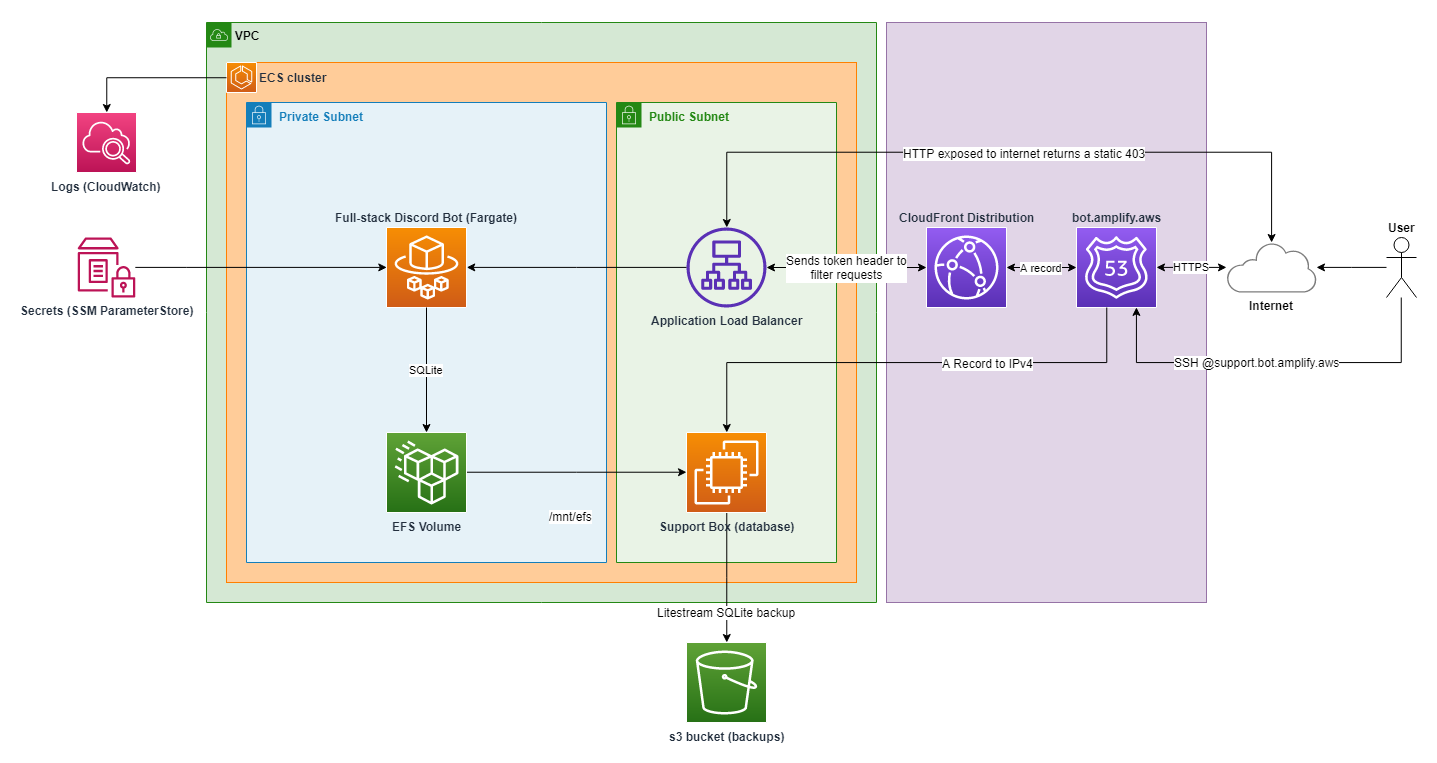
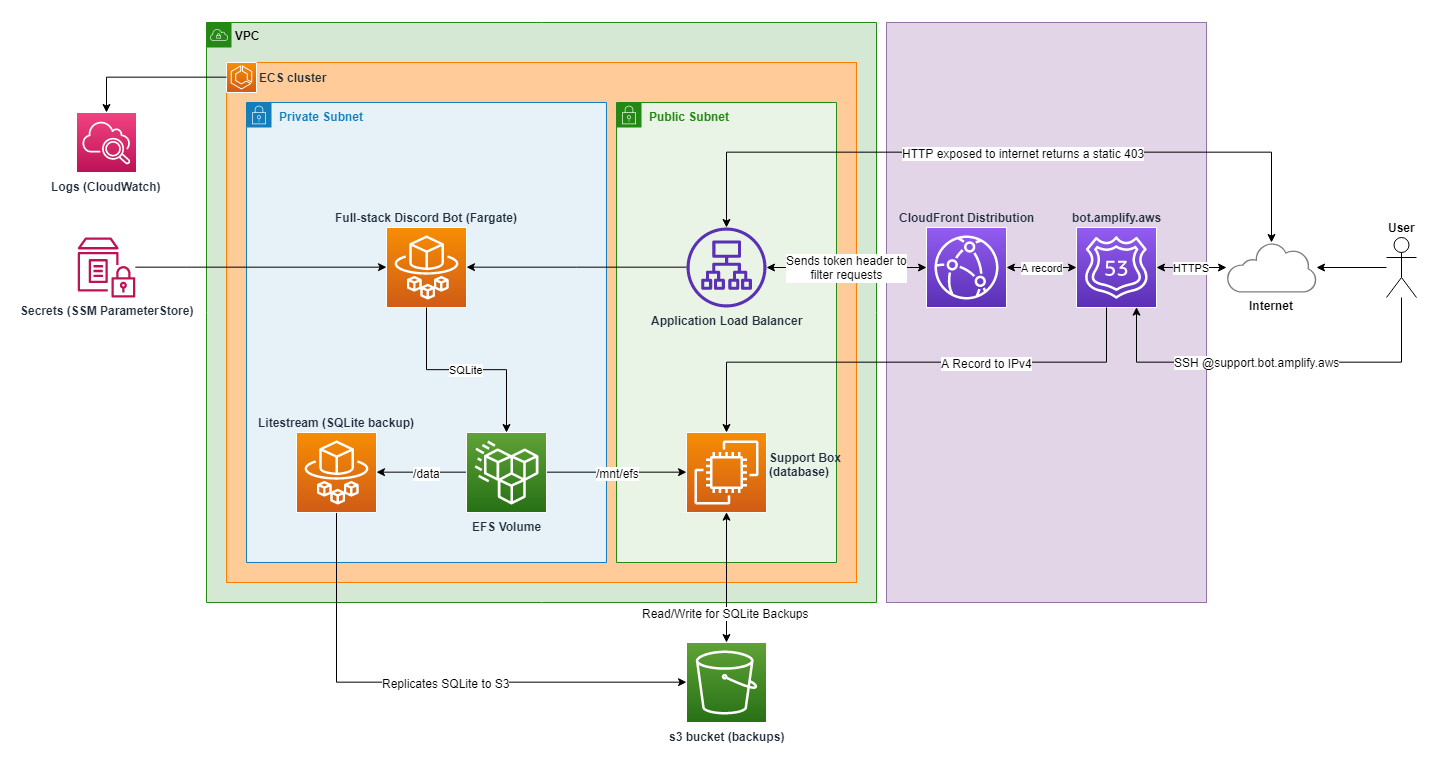
feat(cdk): add sqlite backup with litestream sidecar, modify bucket

diff --git a/cdk/src/components/support-box.ts b/cdk/src/components/support-box.ts
@@ -1,21 +1,26 @@
-import { Stack } from 'aws-cdk-lib'
+import { Stack, Tags } from 'aws-cdk-lib'
 import { Construct } from 'constructs'
 import * as cdk from 'aws-cdk-lib'
 import * as ec2 from 'aws-cdk-lib/aws-ec2'
 import * as iam from 'aws-cdk-lib/aws-iam'
 import * as route53 from 'aws-cdk-lib/aws-route53'
-import * as s3 from 'aws-cdk-lib/aws-s3'
+import type * as s3 from 'aws-cdk-lib/aws-s3'
 import type * as efs from 'aws-cdk-lib/aws-efs'
 import type { AmplifyAwsSubdomain } from './amplify-aws-subdomain'
 
 export interface SupportBoxProps {
   /**
-   * Filesystem to be used for storing the application's data.
+   * bucket for ec2 access, used for manually restoring backups of SQLite
+   */
+  bucket: s3.Bucket
+
+  /**
+   * Filesystem to be used for storing the mounting to ec2 instance
    */
   filesystem: efs.FileSystem
 
   /**
-   * Subdomain (if exists)
+   * Subdomain (if exists) establishes `support` subdomain
    */
   subdomain: AmplifyAwsSubdomain | undefined
 
@@ -29,15 +34,16 @@ export interface SupportBoxProps {
  * The support box is used for accessing filesystem and performing manual database migrations
  */
 export class SupportBox extends Construct {
-  private readonly appName: string = this.node.tryGetContext('app')
+  private readonly appName: string = this.node.tryGetContext('name')
   private readonly envName: string = this.node.tryGetContext('env')
-
-  public readonly bucket: s3.Bucket
 
   constructor(scope: Construct, id: string, props: SupportBoxProps) {
     super(scope, id)
 
-    const { filesystem, subdomain, vpc } = props
+    const { bucket, filesystem, subdomain, vpc } = props
+
+    Tags.of(this).add('app:name', this.appName)
+    Tags.of(this).add('app:env', this.envName)
 
     const role = new iam.Role(this, 'SupportBoxRole', {
       assumedBy: new iam.ServicePrincipal('ec2.amazonaws.com'),
@@ -65,7 +71,7 @@ export class SupportBox extends Construct {
         subnetType: ec2.SubnetType.PUBLIC,
       },
       role,
-      instanceName: 'support-box',
+      instanceName: `support-box-${this.envName}`,
       instanceType: ec2.InstanceType.of(
         // t2.micro has free tier usage in aws
         ec2.InstanceClass.T2,
@@ -104,11 +110,6 @@ export class SupportBox extends Construct {
       ...scriptSetupNode
     )
 
-    // create bucket for SQLite backups with Litestream
-    const bucket = new s3.Bucket(this, 'SupportBucket', {
-      bucketName: `${this.appName}-${this.envName}-bucket`,
-    })
-    this.bucket = bucket
     bucket.grantReadWrite(instance.role)
 
     // set up DNS record for the CloudFront distribution if subdomain exists
@@ -122,6 +123,11 @@ export class SupportBox extends Construct {
       // outputs public IP of the instance
       new cdk.CfnOutput(this, 'DomainOutput', {
         value: record.domainName,
+      })
+    } else {
+      // outputs public IP of the instance
+      new cdk.CfnOutput(this, 'IPOutput', {
+        value: instance.instancePublicIp,
       })
     }
   }

diff --git a/cdk/src/components/hey-amplify-app.ts b/cdk/src/components/hey-amplify-app.ts
@@ -11,6 +11,7 @@ import * as route53 from 'aws-cdk-lib/aws-route53'
 import * as route53Targets from 'aws-cdk-lib/aws-route53-targets'
 import * as ssm from 'aws-cdk-lib/aws-ssm'
 import { v4 as uuid } from 'uuid'
+import type * as s3 from 'aws-cdk-lib/aws-s3'
 import type { AmplifyAwsSubdomain } from './amplify-aws-subdomain'
 
 interface DockerProps {
@@ -21,6 +22,11 @@ interface DockerProps {
 }
 
 export interface HeyAmplifyAppProps {
+  /**
+   * S3 bucket to store SQLite backups
+   */
+  bucket?: s3.Bucket
+
   /**
    * ECS Cluster the Application Load Balanced Fargate Service will be deployed to.
    */
@@ -64,8 +70,14 @@ export class HeyAmplifyApp extends Construct {
   constructor(scope: Construct, id: string, props: HeyAmplifyAppProps) {
     super(scope, id)
 
-    const { cluster, filesystem, filesystemMountPoint, docker, subdomain } =
-      props
+    const {
+      bucket,
+      cluster,
+      filesystem,
+      filesystemMountPoint,
+      docker,
+      subdomain,
+    } = props
 
     const secrets = {}
     for (const [name, param] of Object.entries(props.secrets)) {
@@ -206,6 +218,34 @@ export class HeyAmplifyApp extends Construct {
 
       new cdk.CfnOutput(this, 'HeyAmplifyAppURL', {
         value: record.domainName,
+      })
+    }
+
+    if (docker.environment?.DATABASE_URL && bucket) {
+      // create backup infrastructure, Litestream sidecar
+      const litestreamContainer =
+        albFargateService.service.taskDefinition.addContainer('db-backup', {
+          image: ecs.ContainerImage.fromRegistry('litestream/litestream'),
+          environment: {
+            BUCKET_NAME: bucket.bucketName,
+          },
+          logging: new ecs.AwsLogDriver({
+            streamPrefix: 'backup',
+          }),
+          command: [
+            'replicate',
+            `${docker.environment.DATABASE_URL.replace('file:', '')}`,
+            `s3://${bucket.bucketName}/backups`,
+          ],
+        })
+
+      bucket.grantReadWrite(albFargateService.service.taskDefinition.taskRole)
+
+      // mount the filesystem
+      litestreamContainer.addMountPoints({
+        containerPath: filesystemMountPoint,
+        sourceVolume: volumeName,
+        readOnly: false,
       })
     }
   }

diff --git a/cdk/src/stack.ts b/cdk/src/stack.ts
@@ -1,8 +1,9 @@
-import { Stack, StackProps, Tags } from 'aws-cdk-lib'
+import { Stack, StackProps, Tags, RemovalPolicy } from 'aws-cdk-lib'
 import { Construct } from 'constructs'
 import * as ec2 from 'aws-cdk-lib/aws-ec2'
 import * as ecs from 'aws-cdk-lib/aws-ecs'
 import * as efs from 'aws-cdk-lib/aws-efs'
+import * as s3 from 'aws-cdk-lib/aws-s3'
 import * as ssm from 'aws-cdk-lib/aws-ssm'
 import { HeyAmplifyApp } from './components/hey-amplify-app'
 import { PROJECT_ROOT } from './constants'
@@ -48,7 +49,7 @@ export class HeyAmplifyStack extends Stack {
 
     const vpc = new ec2.Vpc(this, `Vpc`, {
       maxAzs: 2,
-      vpcName: `${this.appName} VPC`,
+      vpcName: `vpc-${this.appName}-${this.envName}`,
     })
 
     const cluster = new ecs.Cluster(this, `Cluster`, {
@@ -66,7 +67,16 @@ export class HeyAmplifyStack extends Stack {
       subdomain = new AmplifyAwsSubdomain(this, 'Subdomain', props.subdomain)
     }
 
+    // create bucket for SQLite backups with Litestream
+    const bucket = new s3.Bucket(this, 'Bucket', {
+      bucketName: `${this.appName}-${this.envName}-bucket`,
+      // if env is destroyed, empty & remove bucket
+      removalPolicy: RemovalPolicy.DESTROY,
+      autoDeleteObjects: true,
+    })
+
     new HeyAmplifyApp(this, `Bot`, {
+      bucket,
       cluster,
       docker: {
         name: `${this.appName}-bot`,
@@ -84,6 +94,7 @@ export class HeyAmplifyStack extends Stack {
     })
 
     new SupportBox(this, 'SupportBox', {
+      bucket,
       filesystem,
       subdomain,
       vpc,
